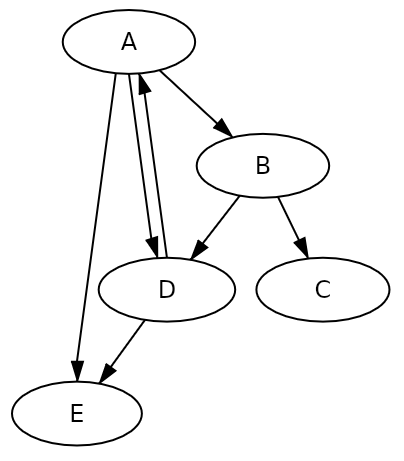
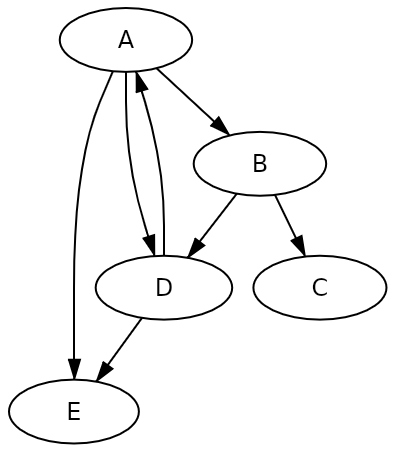
draw edges with bezier curves

diff --git a/src/Transformer.cs b/src/Transformer.cs
@@ -1,22 +1,80 @@
 using System;
 using System.Collections.Generic;
+using System.Linq;
 using System.Text;
 using Avalonia;
+using Avalonia.Collections;
+using Avalonia.Media;
 
-namespace AvaloniaGraphControl {
-  class Transformer {
+namespace AvaloniaGraphControl
+{
+  class Transformer
+  {
     private readonly Microsoft.Msagl.Core.Geometry.Point origin;
 
-    public Transformer(Microsoft.Msagl.Core.Geometry.Point origin) {
+    public Transformer(Microsoft.Msagl.Core.Geometry.Point origin)
+    {
       this.origin = origin;
     }
 
-    public Point Transform(Microsoft.Msagl.Core.Geometry.Point pt) {
+    public Point Transform(Microsoft.Msagl.Core.Geometry.Point pt)
+    {
       return new Point(pt.X - origin.X, origin.Y - pt.Y);
     }
 
-    public Rect Transform(Microsoft.Msagl.Core.Geometry.Rectangle rect) {
+    public Rect Transform(Microsoft.Msagl.Core.Geometry.Rectangle rect)
+    {
       return new Rect(Transform(rect.LeftTop), Transform(rect.RightBottom));
+    }
+
+    public PathFigure Transform(Microsoft.Msagl.Core.Geometry.Curves.ICurve curve)
+    {
+      var segments = new PathSegments();
+      segments.AddRange(Flatten(curve).Select(s => TransformSegment(s)));
+      return new PathFigure
+      {
+        StartPoint = Transform(curve.Start),
+        Segments = segments,
+        IsClosed = false,
+        IsFilled = false
+      };
+    }
+
+    private IEnumerable<Microsoft.Msagl.Core.Geometry.Curves.ICurve> Flatten(Microsoft.Msagl.Core.Geometry.Curves.ICurve curve)
+    {
+      if (curve is Microsoft.Msagl.Core.Geometry.Curves.Curve compositeCurve)
+        return compositeCurve.Segments.SelectMany(c => Flatten(c));
+      return Enumerable.Repeat(curve, 1);
+    }
+    private PathSegment TransformSegment(Microsoft.Msagl.Core.Geometry.Curves.ICurve curve)
+    {
+      if (curve is Microsoft.Msagl.Core.Geometry.Curves.LineSegment lineSegment)
+        return new LineSegment { Point = Transform(lineSegment.End) };
+      if (curve is Microsoft.Msagl.Core.Geometry.Curves.CubicBezierSegment bezierSegment)
+        return new BezierSegment
+        {
+          Point1 = Transform(bezierSegment.B(1)),
+          Point2 = Transform(bezierSegment.B(2)),
+          Point3 = Transform(bezierSegment.End)
+        };
+      if (curve is Microsoft.Msagl.Core.Geometry.Curves.Ellipse ellipse)
+        return ApproximateEllipticalArcWithBezierCurve_ThisMethodNeedsTesting(ellipse);
+      throw new NotImplementedException(string.Format("Cannot transform {0} of type {1}", curve, curve.GetType().FullName));
+    }
+
+    private PathSegment ApproximateEllipticalArcWithBezierCurve_ThisMethodNeedsTesting(Microsoft.Msagl.Core.Geometry.Curves.Ellipse ellipse)
+    {
+      // see http://www.spaceroots.org/documents/ellipse/elliptical-arc.pdf
+      var d = ellipse.ParEnd - ellipse.ParStart;
+      var a = Math.Sin(d) * (Math.Sqrt(4 + 3 * Math.Pow(Math.Tan(d / 2), 2)) - 1) / 3;
+      var q1 = ellipse.Start + a * ellipse.Derivative(ellipse.ParStart);
+      var q2 = ellipse.End - a * ellipse.Derivative(ellipse.ParEnd);
+      return new BezierSegment
+      {
+        Point1 = Transform(q1),
+        Point2 = Transform(q2),
+        Point3 = Transform(ellipse.End)
+      };
     }
   }
 }

diff --git a/src/RenderingHelper.cs b/src/RenderingHelper.cs
@@ -76,7 +76,8 @@ namespace AvaloniaGraphControl
 
       Action<DrawingContext, Transformer> drawArrowAtTarget = edge.Attr.ArrowheadAtTarget switch
       {
-        ArrowStyle.None => (context, transformer) => {},
+        ArrowStyle.None => (context, transformer) => { }
+        ,
         _ => (context, transformer) =>
         {
           var arrowHead = ComputeArrowHead(edge.EdgeCurve.End, edge.ArrowAtTargetPosition, 3.0);
@@ -85,11 +86,13 @@ namespace AvaloniaGraphControl
         }
       };
 
+      var nofill = new SolidColorBrush();
       void drawEdge(DrawingContext context, Transformer transformer)
       {
         var bounds = transformer.Transform(edge.BoundingBox);
-        context.DrawLine(new Pen(brush), transformer.Transform(edge.EdgeCurve.Start), transformer.Transform(edge.EdgeCurve.End));
-        drawArrowAtTarget(context,transformer);
+        var geom = new PathGeometry { Figures = new PathFigures { transformer.Transform(edge.EdgeCurve) } };
+        context.DrawGeometry(nofill, new Pen(brush), geom);
+        drawArrowAtTarget(context, transformer);
         if (text != null && edge.Label.IsVisible)
           context.DrawText(brush, transformer.Transform(edge.Label.LeftTop), text);
       }

diff --git a/sample/Model.cs b/sample/Model.cs
@@ -30,7 +30,6 @@ namespace AvaloniaGraphControlSample
         graph.AddEdge("B", "D");
         graph.AddEdge("D", "A");
         graph.AddEdge("D", "E");
-        graph.LayerConstraints.AddUpDownConstraint(graph.FindNode("A"), graph.FindNode("D"));
         foreach (var node in graph.Nodes)
         {
           node.Attr.Shape = Shape.Ellipse;
